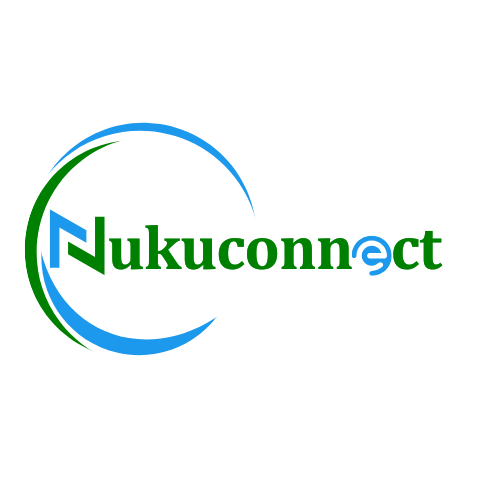
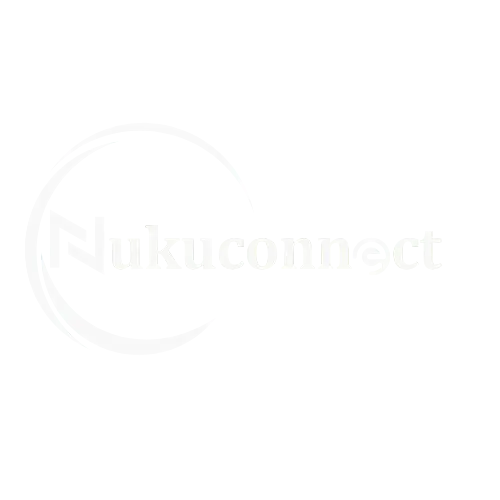
Changes

Changed region(s): [[0.03, 0.24, 0.9, 0.72], [0.42, 0.3, 0.48, 0.36], [0.48, 0.36, 0.51, 0.42]]

diff --git a/src/components/marketplace/ImageWatermark.tsx b/src/components/marketplace/ImageWatermark.tsx
@@ -2,40 +2,30 @@ import watermark from "@/assets/nuku-watermark.png";
 import { cn } from "@/lib/utils";
 
 interface Props {
-  /** Width relative to parent (0-1). Default 0.28 */
+  /** Width relative to parent (0-1). Default 0.55 */
   scale?: number;
   className?: string;
 }
 
 /**
- * Absolute-positioned Nukuconnect watermark overlay.
- * Drop this inside any `relative` image container to brand
- * the image without modifying the underlying file.
+ * Centered Nukuconnect watermark overlay.
+ * Drop inside any `relative` image container — the white logo
+ * is rendered with low opacity in the middle of the image.
  */
-const ImageWatermark = ({ scale = 0.28, className }: Props) => (
+const ImageWatermark = ({ scale = 0.55, className }: Props) => (
   <div
     aria-hidden
     className={cn(
-      "pointer-events-none absolute bottom-1.5 right-1.5 select-none z-10",
+      "pointer-events-none absolute inset-0 flex items-center justify-center select-none z-10",
       className,
     )}
-    style={{ width: `${scale * 100}%`, maxWidth: 130 }}
   >
-    {/* Soft white plate for legibility on any background */}
-    <div className="absolute -inset-1 rounded-md bg-white/10 backdrop-blur-[1px]" />
-    {/* Blurred halo */}
     <img
       src={watermark}
       alt=""
       draggable={false}
-      className="absolute inset-0 w-full h-auto opacity-40 blur-[2px]"
-    />
-    {/* Crisp logo */}
-    <img
-      src={watermark}
-      alt=""
-      draggable={false}
-      className="relative w-full h-auto opacity-65"
+      className="w-auto h-auto opacity-40 mix-blend-overlay drop-shadow-sm"
+      style={{ width: `${scale * 100}%`, maxWidth: "70%" }}
     />
   </div>
 );
